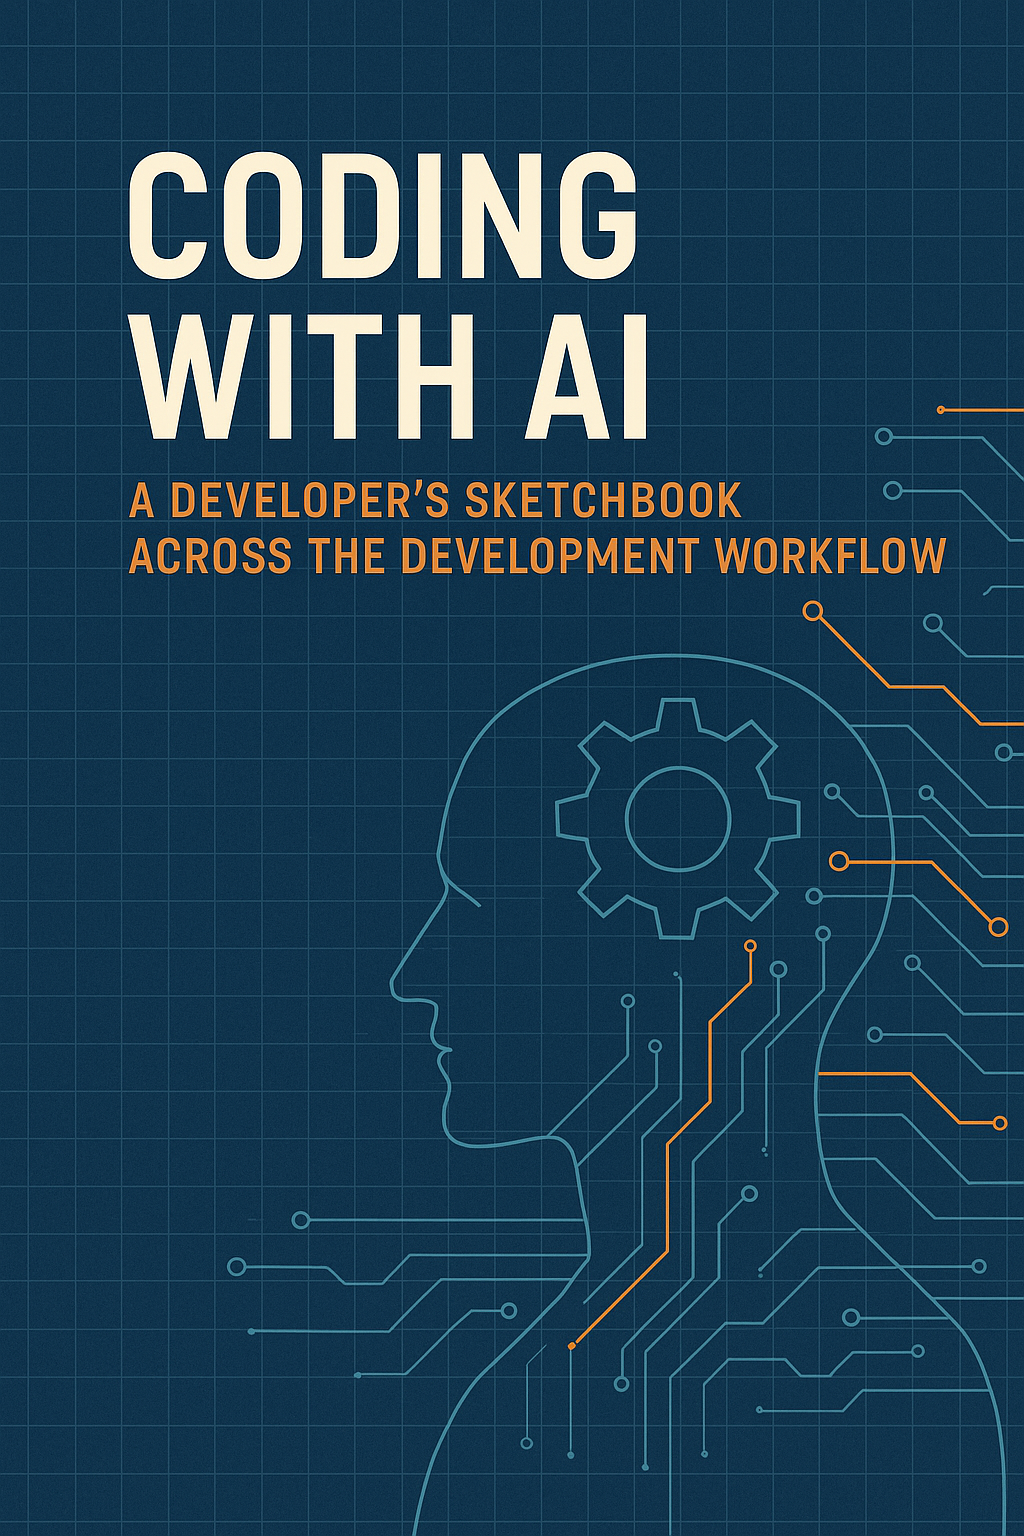
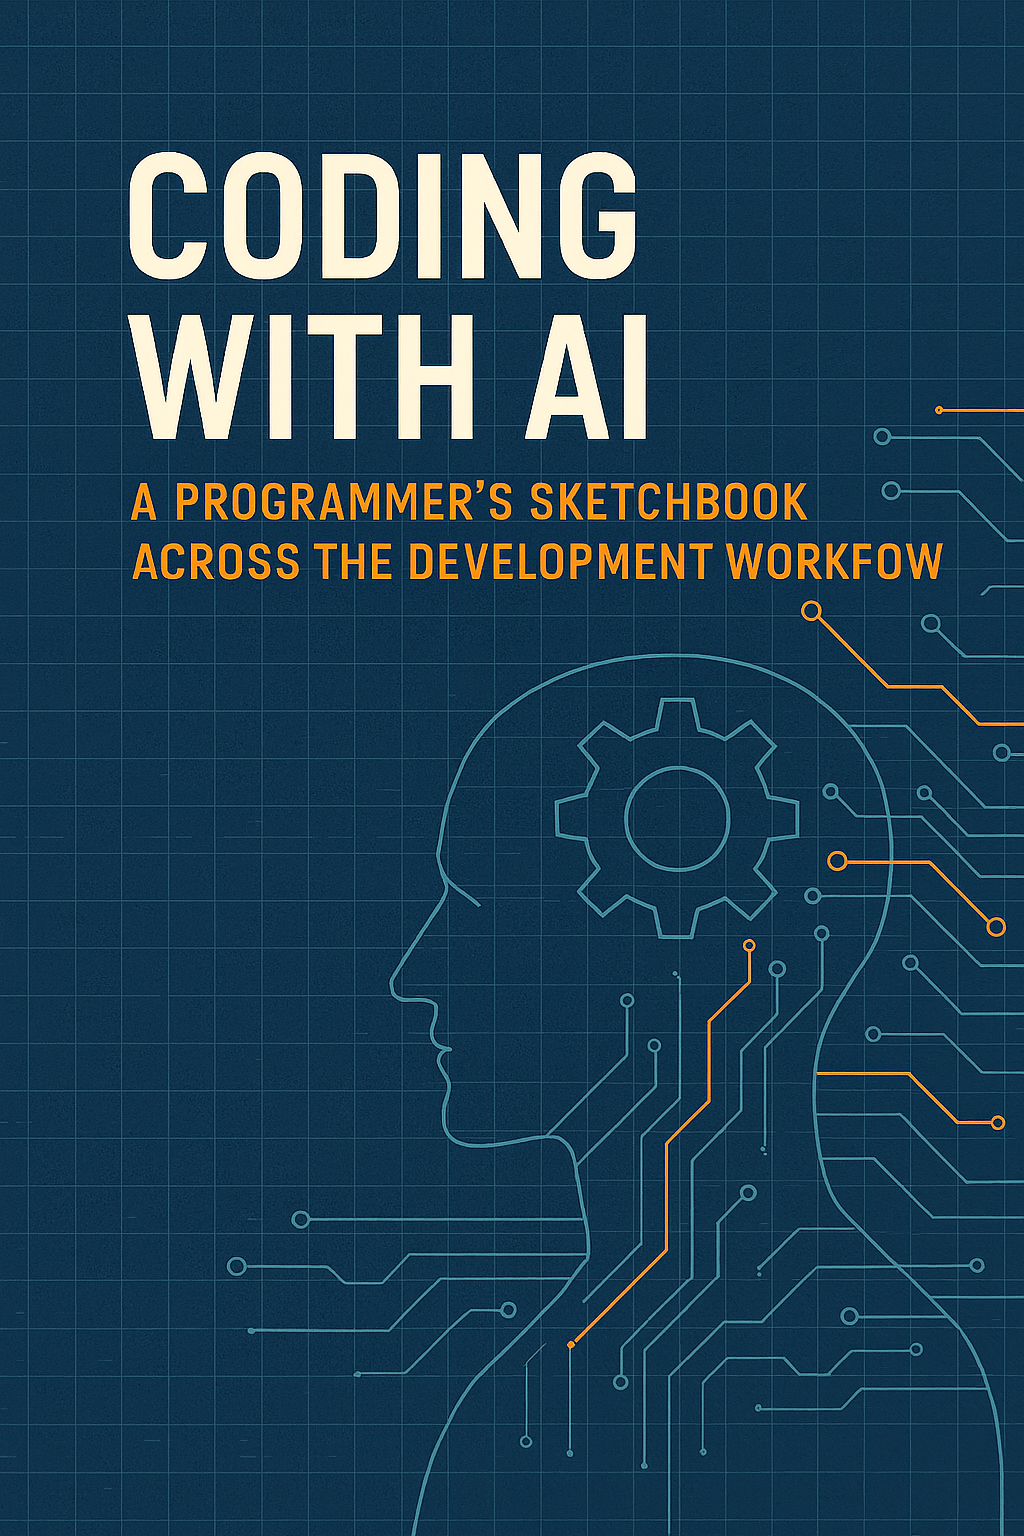
new cover and title

diff --git a/README.md b/README.md
@@ -1,5 +1,5 @@
 # Coding with AI
-## A Developer’s Sketchbook Across the Development Workflow
+## A Programmer’s Sketchbook Across the Development Workflow
 
 To access this content, you can
 * Clone this repository to play with the Jupyter notebooks
